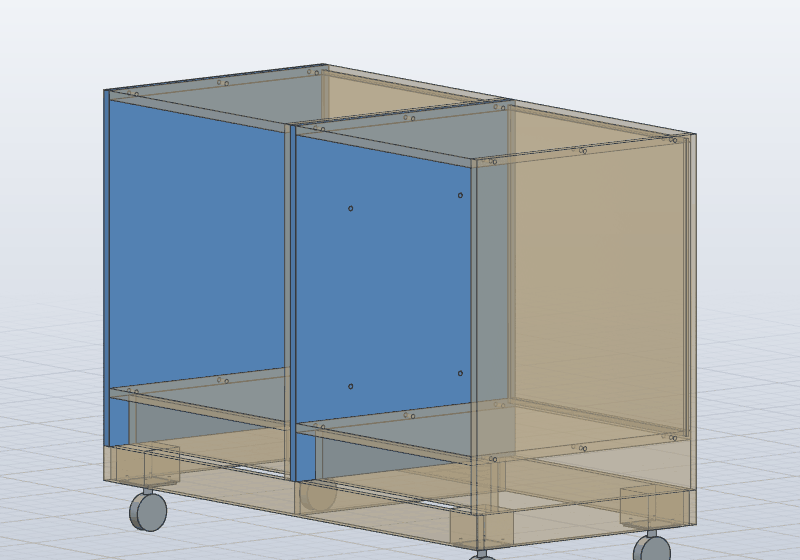
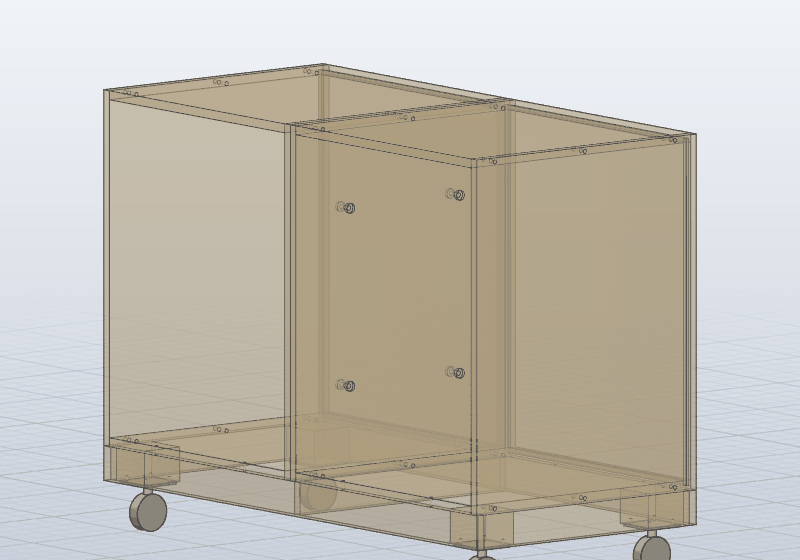
Mobile base: build cabinets with a plinth again with Plinth No (#281)

diff --git a/tests/test_base.py b/tests/test_base.py
@@ -369,3 +369,33 @@ def test_a_base_under_eight_cabinets(approval):
     steps += [pick(*[f"C{i} Side L" for i in range(1, 9)]), plugin(approval, "base", {"name": "Long"})]
     summary = designed(approval, NONE, steps)[-1]["result"]
     assert len(summary["cabinets"]) == 8 and summary["bolts"] == 28, summary
+
+
+def test_cabinets_with_a_plinth_lose_it_on_the_base(approval):
+    # #281: A on a plinth board, B with notched sides beside it. Mobile base builds both again
+    # with Plinth No before lifting them: no plinth board or notch is left, their bottoms rest
+    # on the frame (170 mm up) and get frame screws. Apply settings with another plinth height
+    # and type afterwards gives neither a plinth back; a run again changes nothing more.
+    timeline = {"command": "document.inspect", "params": {"bodies": False, "timeline": True}}
+    results = designed(approval, NONE, [
+        plugin(approval, "cabinet", {"name": "A", "width": 600, "plinth": 100}), select("A Side R"),
+        plugin(approval, "cabinet", {"name": "B", "width": 600, "plinth": 100, "plinth_type": "notch",
+                                     "place": "right"}),
+        pick("A Side L", "B Side L"), plugin(approval, "base", {"name": "Bench"}),
+        MEASURE, timeline,
+        setting(approval, {"plinth": 120, "plinth_type": "legs"}), plugin(approval, "rebuild", {}),
+        MEASURE, timeline,
+        pick("A Side L", "B Side L"), plugin(approval, "base", {"name": "Bench"}), MEASURE])
+    box = boxes(results[5])
+    assert not [n for n in box if " Plinth" in n or " Leg " in n], sorted(box)
+    names = [f["name"] for f in results[6]["timeline"]]
+    assert not [n for n in names if " notch" in n], [n for n in names if " notch" in n]
+    for cabinet in "AB":
+        assert box[f"{cabinet} Bottom"][2] == 170 and box[f"{cabinet} Side L"][2] == 170, box[f"{cabinet} Bottom"]
+        assert [n for n in names if n.startswith(f"{cabinet} Bottom frame screw ")], names
+    applied = results[7]["result"]
+    assert all("plinth" not in c for c in applied["changed"].values()), applied
+    after, names = boxes(results[8]), [f["name"] for f in results[9]["timeline"]]
+    assert not [n for n in after if " Plinth" in n or " Leg " in n], sorted(after)
+    assert not [n for n in names if " notch" in n] and after["A Bottom"][2] == 170, after["A Bottom"]
+    assert boxes(results[12]) == after, "a run again changes nothing"

diff --git a/src/lib.rs b/src/lib.rs
@@ -1533,6 +1533,37 @@ fn entries(entry: &str, params: &Value, stored: &Value, run: Run) -> Result<Valu
             let measure = measured(names, &cabinets, run)?;
             // a cabinet deleted since the base remembered it is left out
             cabinets.retain(|c| select::named(&measure, c).is_ok());
+            // On the frame, not on a plinth (#281): a cabinet made with one (board, notch, legs
+            // or casters) is built again with Plinth No first, as Edit would, so its bottom
+            // rests on the frame and gets the screws. Remembered, so Apply settings keeps it so.
+            let mut dropped = false;
+            for cabinet in &cabinets {
+                let about = run("component.metadata", json!({"component": cabinet}))?;
+                let ours = &about["metadata"][edit::KEY];
+                let Some(entry) = ours["entry"]
+                    .as_str()
+                    .filter(|e| matches!(*e, "cabinet" | "corner"))
+                else {
+                    continue;
+                };
+                let design = run(
+                    "document.inspect",
+                    json!({"bodies": false, "timeline": false}),
+                )?;
+                let (_, mut plain) = edit::merge(ours, &json!({}), &design)?;
+                if plain["plinth"].as_f64().unwrap_or(0.0) <= 0.0 {
+                    continue;
+                }
+                plain["plinth"] = json!(0);
+                rebuild(
+                    cabinet, &about, entry, &plain, &design, &measure, false, run,
+                )?;
+                dropped = true;
+            }
+            let measure = match dropped {
+                true => measured(body_names(run)?, &cabinets, run)?,
+                false => measure,
+            };
             let (plans, floors) = base::plans(&measure, &cabinets)?;
             params["name"] = json!(name);
             if base::timber(&params)?.is_some() {

diff --git a/CLAUDE.md b/CLAUDE.md
@@ -285,7 +285,7 @@ table says which).
 | `src/edit/` | Edit cabinet: what a cabinet's component remembers (`component.metadata.set` under our key), and merging that with the Edit dialog and the design's parameters |
 | `src/joint/` | Joinery chosen at build: a `Joint` (where one board's end meets another's face) and the cabinet's `Joinery` (its methods, their sizes as parameters, the cuts, the fastener models and counts) that the builders share |
 | `src/panel/` | End panel or filler (with its return) on one end of a box cabinet: boards inside its component, sized by expressions over its parameters. `lib.rs` runs them in the cabinet's component (on the origin: `inside`), remembers them for Edit, and refuses Place against a side that has one |
-| `src/base/` | Mobile base (#101, entry `base`): `base::plans` (each picked cabinet's plan box from its sides and backs, and the lowest point of its bodies) and `base::build`: at world coordinates with a `Kit` (numeric, like the worktop), `<Name> Frame front/back/left/right` on edge round the joint footprint, `Frame cross n` at each joint along the long way (the whole way across) and across it (`base::pieces`: only under the cabinets with that edge, stopped at the boards across, so no boards overlap, #216), `Frame stiffener n` across it so no two boards across are more than `stiffener_spacing` (600 mm, 300 to 2000) apart (`base::stiffeners`, #229; the boards along and the blocks keep clear of them, and a spacing that would put one on a corner block is refused), `Block n` in the corners and pairs between, evenly spaced at most `LONG` 1500 mm apart (`base::casters`, #228: a block on a board across moves to the nearest place clear of all of them, and a pair more comes when a move would leave a gap over `LONG`) with `fittings::caster` under each; summary `lift` (caster + frame height). Timber frame: `frame_material: timber` takes the frame's thickness and height from `timber_thickness` and `timber_width` (48 x 98 by default, the timber on edge; `base::timber`), and `lib.rs` gives it `material::TIMBER` (solid whatever See-through boards says), which the cut list buys by length: each piece in `timber` (shaped as `worktops`, the PDF's *Timber, bought to length*) and the metres per section in `timber_metres` (with `thickness_mm`, `width_mm`) and the CSV, on no sheet; `cost::estimate` prices each section a running metre (`Timber 48x98`, or with spaces); a caster block (`base::is_block`, `<Name> Block <n>`) is a piece noted `caster block`, out of the metres and not priced.  A long job (`"job": true`, #239: one run is about 30 host calls a cabinet, so 8 in a row passed the 256 of an ordinary run; no Preview) with a `dialog_hook`: the run saves its values (no `selection`, no timber `material`) in `base::file` (`base/<prefix>.json`), and the hook, for a picked body that `base::owner` finds (exactly one of `build`'s part names after a base's prefix, so a cabinet `Bench Frame` is not base `Bench`'s; only a base with a file: one made before has none until a run, no migration), answers that file as defaults (`base::fields`, Name's hint "Editing <name>"); a run whose pick holds a board of the base of its Name adds the other picked cabinets to the remembered ones (no removing yet). `lib.rs` makes it in a component, grounds it, moves each grounded cabinet up by `lift - floor` (`move_grounded`; a held one follows its link) and remembers `cabinets` in the component's metadata (entry `base`); run again by name, it deletes and makes it again over the picked or remembered cabinets; connector bolts (#198): `base::bolts` finds each pair of touching `Side L`/`Side R` of the picked cabinets in the world and gives four `BOLT_D` 9 mm holes through both, which `lib.rs` cuts in each cabinet's own component (`inside`, `worktop::local`) as `<Side> connector bolt n to <other side>` (on the side first by name, which the cut list counts as `Connector bolt, M6`) and `<Side> connector hole n to <other side>`, n the place in the pair, so the names do not depend on the pick order, and on each side a `COUNTERBORE_D` 20 mm counterbore `COUNTERBORE_DEPTH` 6 mm deep from its outer face, `<Side> connector counterbore n to <other side>` (#260, counted as two `Washer, M6` a bolt; sides touching less than `4 * COUNTERBORE_D` get none; a touching side thinner than `COUNTERBORE_DEPTH + SHOULDER`, 12 mm, is refused; washers counted from the bolts, so a bolt drilled before the counterbores gets its two); `lib.rs` `bolt_cuts` and `cut_world` (each cut a cylinder along its box's size that is not its diameter) are shared with the entry `bolts` (Connector bolts, #260: the same holes over the picked cabinets without a base, an ordinary edit run with Preview; refused when none touch); frame screws (#198): `base::screws` gives two `SCREW_D` 4.5 mm holes down through each cabinet's `Bottom` into each frame board it rests on (its underside on the board's top, at least 100 mm along it, on its middle line), from `inspect.measure` of the frame's bodies (the summary's) beside the cabinets', cut the same way as `<Bottom> frame screw n into <board> at x, y` (`Bottom return` too; the world place in the name, so a run again with other frame sizes deletes the stale ones by `timeline.delete` in the cabinet and cuts the new ones), counted as `Frame screw, 4 x 50 mm`; the lift is rounded to the micrometre, as a bottom with holes measures a hair off; every cut skips a name already in the timeline and is not remembered, so an Edit drops it until Mobile base runs again; held to the base (#215): `on_base` gives each cabinet with no link of its own a rigid `<Name> link` from the base's occurrence (frames at the cabinet's origin, offset 0), ungrounds it and notes `link: {to: <base>, place: base}`; a run again grounds the cabinets `edit::hanging` from the base before deleting it, raises them, and links them again; `rebuild` with that note and the base still there puts the cabinet back at its matrix (a line still sizes it, `place_along` is skipped) and calls `on_base`; Apply settings (`rebuild`'s `follow_line`) instead places a cabinet along its line (on the floor, no link) and reports `rebase`, and `apply` then runs `execute("base")` once per base under any cabinet it looked at (#198: also ones it skipped, so a frame follows a resize; Edit cannot afford a base run in its 256 commands and says in its reply `base` to run Mobile base or Apply settings when `base::resized`) with its remembered `params`, nothing picked (`select.clear` first), which raises and links them |
+| `src/base/` | Mobile base (#101, entry `base`): `base::plans` (each picked cabinet's plan box from its sides and backs, and the lowest point of its bodies) and `base::build`: at world coordinates with a `Kit` (numeric, like the worktop), `<Name> Frame front/back/left/right` on edge round the joint footprint, `Frame cross n` at each joint along the long way (the whole way across) and across it (`base::pieces`: only under the cabinets with that edge, stopped at the boards across, so no boards overlap, #216), `Frame stiffener n` across it so no two boards across are more than `stiffener_spacing` (600 mm, 300 to 2000) apart (`base::stiffeners`, #229; the boards along and the blocks keep clear of them, and a spacing that would put one on a corner block is refused), `Block n` in the corners and pairs between, evenly spaced at most `LONG` 1500 mm apart (`base::casters`, #228: a block on a board across moves to the nearest place clear of all of them, and a pair more comes when a move would leave a gap over `LONG`) with `fittings::caster` under each; summary `lift` (caster + frame height). Timber frame: `frame_material: timber` takes the frame's thickness and height from `timber_thickness` and `timber_width` (48 x 98 by default, the timber on edge; `base::timber`), and `lib.rs` gives it `material::TIMBER` (solid whatever See-through boards says), which the cut list buys by length: each piece in `timber` (shaped as `worktops`, the PDF's *Timber, bought to length*) and the metres per section in `timber_metres` (with `thickness_mm`, `width_mm`) and the CSV, on no sheet; `cost::estimate` prices each section a running metre (`Timber 48x98`, or with spaces); a caster block (`base::is_block`, `<Name> Block <n>`) is a piece noted `caster block`, out of the metres and not priced.  A long job (`"job": true`, #239: one run is about 30 host calls a cabinet, so 8 in a row passed the 256 of an ordinary run; no Preview) with a `dialog_hook`: the run saves its values (no `selection`, no timber `material`) in `base::file` (`base/<prefix>.json`), and the hook, for a picked body that `base::owner` finds (exactly one of `build`'s part names after a base's prefix, so a cabinet `Bench Frame` is not base `Bench`'s; only a base with a file: one made before has none until a run, no migration), answers that file as defaults (`base::fields`, Name's hint "Editing <name>"); a run whose pick holds a board of the base of its Name adds the other picked cabinets to the remembered ones (no removing yet). `lib.rs` first builds each picked box or corner cabinet with a plinth again with plinth 0 (#281: `edit::merge` and `rebuild`, Edit's path; remembered, so Edit shows No and `settings::apply` keeps none, as its plinth follows only while Yes/No matches `_defaults`, which has one), then makes it in a component, grounds it, moves each grounded cabinet up by `lift - floor` (`move_grounded`; a held one follows its link) and remembers `cabinets` in the component's metadata (entry `base`); run again by name, it deletes and makes it again over the picked or remembered cabinets; connector bolts (#198): `base::bolts` finds each pair of touching `Side L`/`Side R` of the picked cabinets in the world and gives four `BOLT_D` 9 mm holes through both, which `lib.rs` cuts in each cabinet's own component (`inside`, `worktop::local`) as `<Side> connector bolt n to <other side>` (on the side first by name, which the cut list counts as `Connector bolt, M6`) and `<Side> connector hole n to <other side>`, n the place in the pair, so the names do not depend on the pick order, and on each side a `COUNTERBORE_D` 20 mm counterbore `COUNTERBORE_DEPTH` 6 mm deep from its outer face, `<Side> connector counterbore n to <other side>` (#260, counted as two `Washer, M6` a bolt; sides touching less than `4 * COUNTERBORE_D` get none; a touching side thinner than `COUNTERBORE_DEPTH + SHOULDER`, 12 mm, is refused; washers counted from the bolts, so a bolt drilled before the counterbores gets its two); `lib.rs` `bolt_cuts` and `cut_world` (each cut a cylinder along its box's size that is not its diameter) are shared with the entry `bolts` (Connector bolts, #260: the same holes over the picked cabinets without a base, an ordinary edit run with Preview; refused when none touch); frame screws (#198): `base::screws` gives two `SCREW_D` 4.5 mm holes down through each cabinet's `Bottom` into each frame board it rests on (its underside on the board's top, at least 100 mm along it, on its middle line), from `inspect.measure` of the frame's bodies (the summary's) beside the cabinets', cut the same way as `<Bottom> frame screw n into <board> at x, y` (`Bottom return` too; the world place in the name, so a run again with other frame sizes deletes the stale ones by `timeline.delete` in the cabinet and cuts the new ones), counted as `Frame screw, 4 x 50 mm`; the lift is rounded to the micrometre, as a bottom with holes measures a hair off; every cut skips a name already in the timeline and is not remembered, so an Edit drops it until Mobile base runs again; held to the base (#215): `on_base` gives each cabinet with no link of its own a rigid `<Name> link` from the base's occurrence (frames at the cabinet's origin, offset 0), ungrounds it and notes `link: {to: <base>, place: base}`; a run again grounds the cabinets `edit::hanging` from the base before deleting it, raises them, and links them again; `rebuild` with that note and the base still there puts the cabinet back at its matrix (a line still sizes it, `place_along` is skipped) and calls `on_base`; Apply settings (`rebuild`'s `follow_line`) instead places a cabinet along its line (on the floor, no link) and reports `rebase`, and `apply` then runs `execute("base")` once per base under any cabinet it looked at (#198: also ones it skipped, so a frame follows a resize; Edit cannot afford a base run in its 256 commands and says in its reply `base` to run Mobile base or Apply settings when `base::resized`) with its remembered `params`, nothing picked (`select.clear` first), which raises and links them |
 | `src/worktop/` | Worktop over the selected cabinets: measures their feet (a corner cabinet's two legs), groups them into runs by the way they face, joins runs in corners (butt or mitre) and makes each piece a box or an extruded outline at world coordinates; dog holes and a cut-out in piece 1. `lib.rs` finds the cabinets (a picked worktop's remembered ones), replaces a worktop of that name, makes the component and grounds it |
 | `src/material.rs` | Board materials: create on first use, assign; See-through boards (`see_through`, `opacity`) |
 | `src/cutlist/` | Cut list, edge banding and grain from `inspect.measure`, and the sheets to buy from the cutting layouts |

diff --git a/docs/usage.md b/docs/usage.md
@@ -889,7 +889,9 @@ frame under all of them and stands them on it:
   are at most 1500 mm apart along it (a block that would stand on a cross board moves beside it).
   **Caster height** (100 mm) is from the floor to the frame's underside.
 - **The cabinets** go up onto the frame, each to its top (by Caster height plus Frame height
-  from the floor). Make them with **Plinth** No: the frame is their plinth. A cabinet placed
+  from the floor). The frame is their plinth: a cabinet made with a plinth (board, notch, legs or
+  casters) is built again with **Plinth** No first, and keeps it (Edit shows No, Apply settings
+  does not give it back). A cabinet placed
   against another is held to it, so it goes up with it: pick the run's first cabinet too. One
   that would not end on the frame (held to a cabinet that is not picked) is refused, by name.
 - **Made again:** run Mobile base with the same **Name** to make it again, for example after a
@@ -925,7 +927,6 @@ frame under all of them and stands them on it:
   for at least 100 mm, two 4.5 mm holes (for 4 x 50 mm screws) go down through the bottom onto the
   board's middle, at a quarter and three quarters of that length. A run again does not cut them
   twice, one with other frame sizes moves them, and an Edit of the cabinet drops them until Mobile base runs again.
-  A cabinet with a plinth does not rest its bottom on the frame and gets none.
 - The cut list lists the frame's boards and blocks, and counts the casters as `Caster, locking`,
   the bolts as `Connector bolt, M6` with two `Washer, M6` each, and the screws as `Frame screw, 4 x 50 mm`.
 
